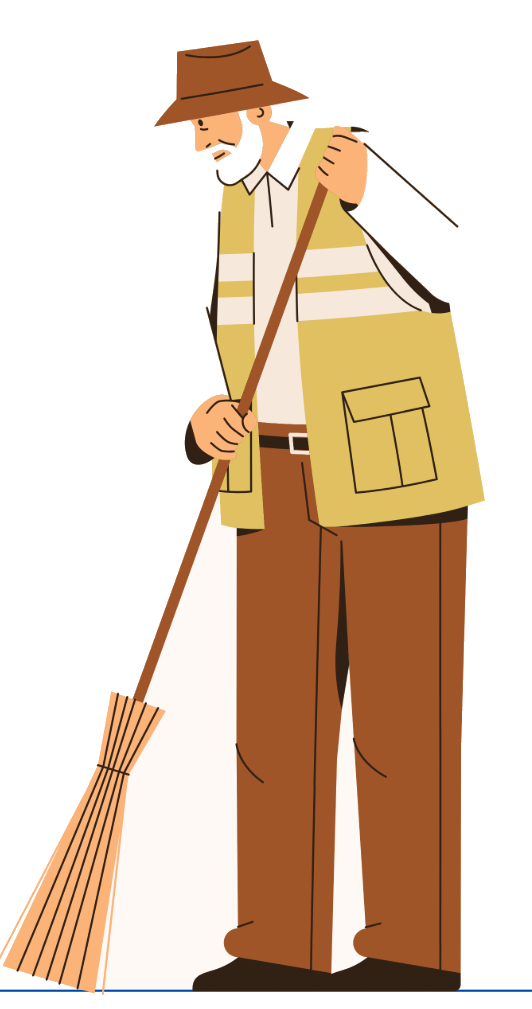
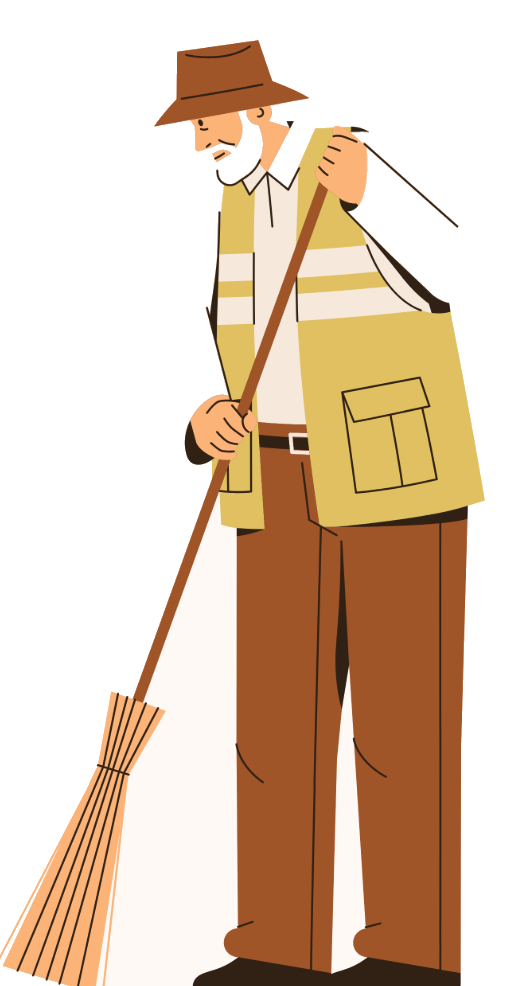
Keep Continue visible on the elderly role card and restore splash space
Move the pointing illustration beside the copy, and drop the extra splash portrait so Get Started stays on screen.

diff --git a/app/page.tsx b/app/page.tsx
@@ -57,23 +57,21 @@ export default function RolePage() {
 
       <a
         href={featured.href}
-        className={`relative mt-6 flex flex-col overflow-hidden rounded-[32px] ${featured.tone} px-5 pt-5`}
+        className={`relative mt-6 flex items-end overflow-hidden rounded-[32px] ${featured.tone} px-5 pt-5`}
       >
-        <div className="flex items-start justify-between gap-3">
-          <div className="min-w-0 pt-1">
-            <p className="text-[22px] font-extrabold tracking-[-0.03em]">{featured.title}</p>
-            <p className="mt-1 max-w-[12.5rem] text-sm text-[#6b5e52]">{featured.hint}</p>
+        <div className="min-w-0 flex-1 pb-5">
+          <p className="text-[22px] font-extrabold tracking-[-0.03em]">{featured.title}</p>
+          <p className="mt-1 max-w-[11rem] text-sm text-[#6b5e52]">{featured.hint}</p>
+          <div className="mt-8 flex items-center justify-between gap-3 pr-2">
+            <p className="text-sm font-bold">Continue</p>
+            <GoButton />
           </div>
         </div>
         <UiPic
           src={featured.art}
           alt=""
-          className="mx-auto -mb-1 h-44 w-auto max-w-[220px] object-contain object-bottom"
+          className="-mb-1 h-44 w-auto max-w-[46%] shrink-0 object-contain object-bottom"
         />
-        <div className="flex items-center justify-between py-4">
-          <p className="text-sm font-bold">Continue</p>
-          <GoButton />
-        </div>
       </a>
 
       <div className="relative mt-3 grid grid-cols-2 gap-3">

diff --git a/app/elderly/page.tsx b/app/elderly/page.tsx
@@ -25,16 +25,7 @@ export default function ElderlyWelcome() {
           {brand.promise}
         </p>
 
-        <div className="relative mx-auto mt-3 h-32 w-full max-w-[200px]">
-          <span aria-hidden className="absolute top-1 left-1 size-20 rounded-full border-[12px] border-[#d4efe4]" />
-          <UiPic
-            src="/illustrations/person-wave.png"
-            alt=""
-            className="relative mx-auto h-32 w-auto object-contain object-bottom"
-          />
-        </div>
-
-        <div className="mt-4 grid grid-cols-3 gap-2">
+        <div className="mt-5 grid grid-cols-3 gap-2">
           <div className="flex flex-col items-center rounded-[28px] bg-[#f8e56a] px-2 py-5">
             <UiPic src="/ui/icon-kopi.svg" alt="" className="h-14 w-14" />
             <span className="mt-2 text-[12px] font-bold">Kopi</span>
